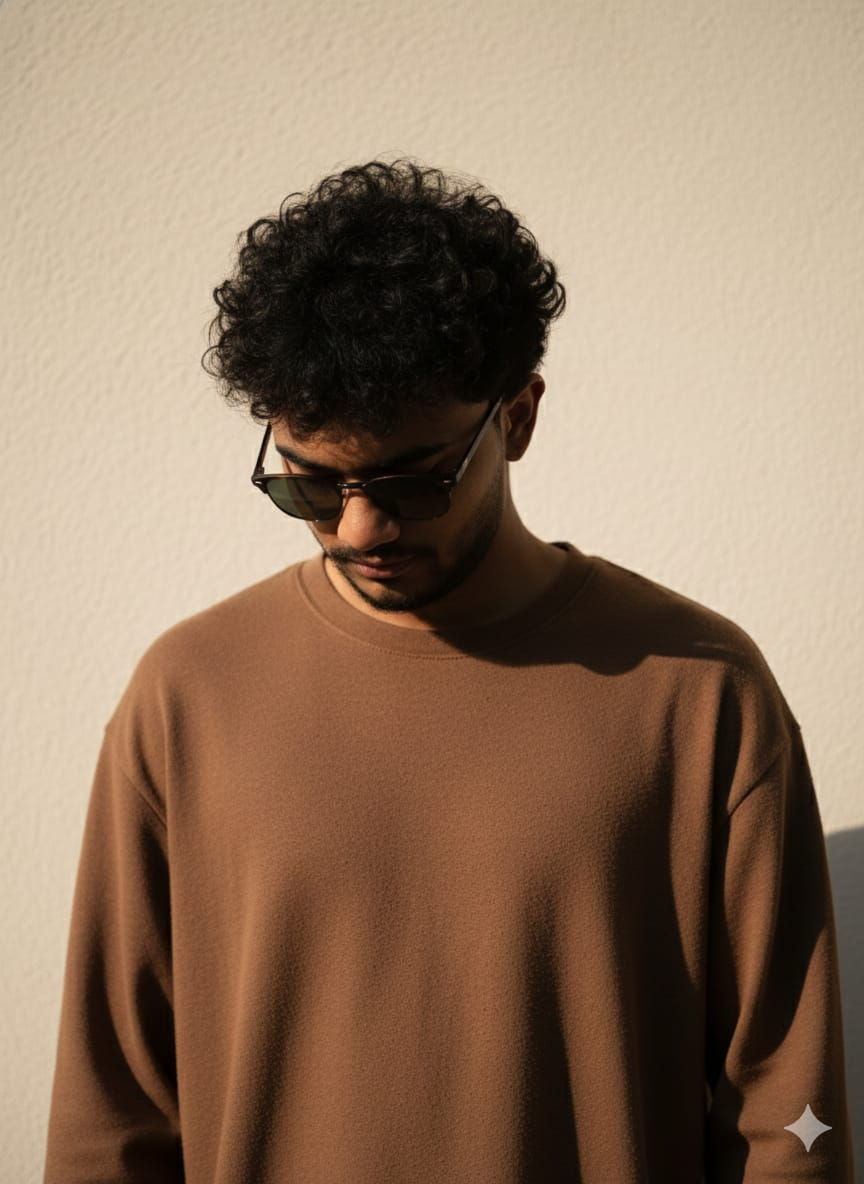
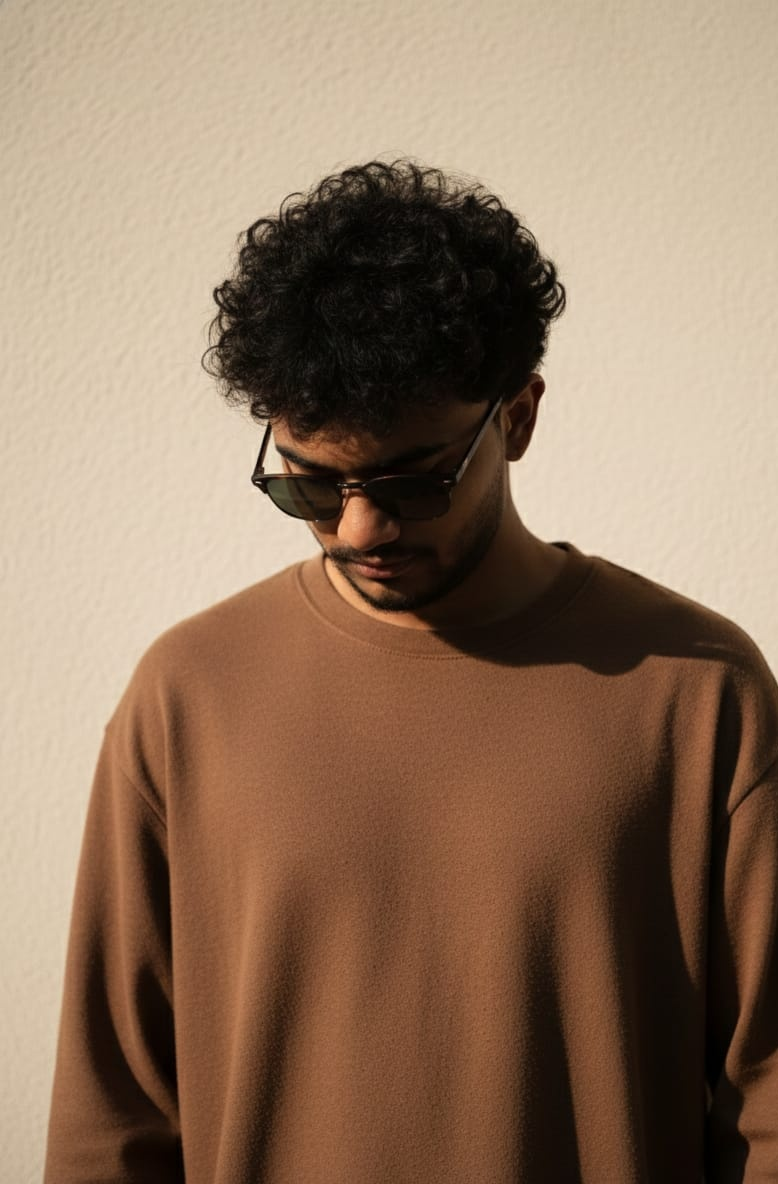
Update portfolio design and content

Changed region(s): [[0.0617, 0.125, 1.0, 1.0], [0.0308, 0.9375, 0.0617, 1.0]]

diff --git a/js/main.js b/js/main.js
@@ -8,9 +8,9 @@
  * Tweak delays, durations, and cycle periods here:
  * ═══════════════════════════════════════════════════════════════════ */
 const LINE_1_START_DELAY_MS = 1000;   // Delay in ms after page load before Line 1 first rolls
-const LINE_GAP_SECONDS = 10;          // Seconds after Line 1 starts before Line 2 starts (never roll both together)
+const LINE_GAP_SECONDS = 10;          // Seconds gap between consecutive lines rolling (exact 10s gap)
 const ROLL_DURATION_MS = 1400;        // Duration in ms of one 180° vertical roll
-const CYCLE_SECONDS = 20;             // Total cycle period in seconds (Line 1 rolls at 0s, 20s... Line 2 at 10s, 30s...)
+const CYCLE_SECONDS = 30;             // Total cycle period in seconds (Line 1: 0s, Line 2: 10s, Line 3: 20s)
 const ROLL_DIRECTION = -1;            // -1 = rolls forward toward viewer (slot-machine drum), 1 = rolls bottom-up
 
 
@@ -55,32 +55,40 @@ const ROLL_DIRECTION = -1;            // -1 = rolls forward toward viewer (slot-
   overlayLinks.forEach(link => link.addEventListener('click', () => toggleOverlay(false)));
 
   /* ═════════════════════════════════════════════════════════
-     3-D MAIN HEADING VERTICAL ROLL CONTROLLER
-     - Two-line main heading rolling vertically like slot-machine drums (rotateX)
-     - Line 1 rolls FIRST at t=0 (after LINE_1_START_DELAY_MS = 1000ms)
-     - Line 2 rolls 10s later (LINE_GAP_SECONDS = 10s), never overlapping
+     3-D MAIN HEADING VERTICAL ROLL CONTROLLER (3 Staggered Lines)
+     - 3-line hero heading rolling vertically like slot-machine drums (rotateX)
+     - Line 1 ("Milan Sherin") rolls FIRST at t=0 (after LINE_1_START_DELAY_MS = 1000ms)
+     - Line 2 ("Security Researcher &") starts 10s after Line 1 (t=10s)
+     - Line 3 ("Network Engineer") starts 10s after Line 2 (t=20s)
+     - No two lines ever roll at the same time
+     - Sequence repeats every CYCLE_SECONDS = 30s
      - Snappy cubic-bezier(0.65, 0, 0.35, 1) transition over ROLL_DURATION_MS = 1400ms
-     - Sequence repeats every CYCLE_SECONDS = 20s (Line 1 at 0s, 20s... Line 2 at 10s, 30s...)
-     - Angular accumulation: turns forward endlessly in the same direction, never rewinding
-     - Dynamic line height measurement for accurate translateZ on mobile wrapping
+     - Continuous single-controller rAF clock with ZERO timing drift
      - Snaps to exact square angle at rest (no layout shift, zero blur)
-     - IntersectionObserver & document.visibilitychange pauses/resumes cleanly without drift
-     - Accessible: full title in aria-label, back faces marked aria-hidden
+     - IntersectionObserver & document.visibilitychange pauses/resumes cleanly
      - Respects prefers-reduced-motion: displays static heading
      ═════════════════════════════════════════════════════════ */
   function initHeadingRoll() {
     const heading = document.querySelector('.s-intro__content-title');
-    const line1Stage = document.querySelector('.heading-3d-line-1 .heading-3d-stage');
-    const line1Cuboid = document.querySelector('.heading-3d-line-1 .heading-3d-cuboid');
-    const line1Front = document.querySelector('.heading-3d-line-1 .heading-3d-front');
-    const line1Back = document.querySelector('.heading-3d-line-1 .heading-3d-back');
+    const lineElements = [
+      document.querySelector('.heading-3d-line-1'),
+      document.querySelector('.heading-3d-line-2'),
+      document.querySelector('.heading-3d-line-3')
+    ];
 
-    const line2Stage = document.querySelector('.heading-3d-line-2 .heading-3d-stage');
-    const line2Cuboid = document.querySelector('.heading-3d-line-2 .heading-3d-cuboid');
-    const line2Front = document.querySelector('.heading-3d-line-2 .heading-3d-front');
-    const line2Back = document.querySelector('.heading-3d-line-2 .heading-3d-back');
+    if (!heading || lineElements.some(el => !el)) return;
 
-    if (!heading || !line1Stage || !line1Cuboid || !line2Stage || !line2Cuboid) return;
+    const lineObjects = lineElements.map((lineEl, index) => {
+      return {
+        el: lineEl,
+        stage: lineEl.querySelector('.heading-3d-stage'),
+        cuboid: lineEl.querySelector('.heading-3d-cuboid'),
+        front: lineEl.querySelector('.heading-3d-front'),
+        back: lineEl.querySelector('.heading-3d-back'),
+        halfHeight: 0,
+        startOffsetMs: index * LINE_GAP_SECONDS * 1000
+      };
+    });
 
     // Cubic-bezier evaluator for cubic-bezier(0.65, 0, 0.35, 1)
     function createCubicBezier(x1, y1, x2, y2) {
@@ -123,22 +131,14 @@ const ROLL_DIRECTION = -1;            // -1 = rolls forward toward viewer (slot-
     const easeRoll = createCubicBezier(0.65, 0, 0.35, 1);
     const prefersReducedMotion = window.matchMedia('(prefers-reduced-motion: reduce)');
 
-    let halfHeight1 = 0;
-    let halfHeight2 = 0;
-
     // Responsive line height measurement: recalculates translateZ on mobile wrapping / resize
     function measureHeights() {
-      const h1 = (line1Front && line1Front.offsetHeight) || line1Stage.offsetHeight || 60;
-      const h2 = (line2Front && line2Front.offsetHeight) || line2Stage.offsetHeight || 60;
-
-      halfHeight1 = Math.round(h1 / 2);
-      halfHeight2 = Math.round(h2 / 2);
-
-      line1Stage.style.setProperty('--line-half-height', `${halfHeight1}px`);
-      line2Stage.style.setProperty('--line-half-height', `${halfHeight2}px`);
-
-      if (line1Back) line1Back.style.minHeight = `${h1}px`;
-      if (line2Back) line2Back.style.minHeight = `${h2}px`;
+      lineObjects.forEach(obj => {
+        const h = (obj.front && obj.front.offsetHeight) || (obj.stage && obj.stage.offsetHeight) || 60;
+        obj.halfHeight = Math.round(h / 2);
+        if (obj.stage) obj.stage.style.setProperty('--line-half-height', `${obj.halfHeight}px`);
+        if (obj.back) obj.back.style.minHeight = `${h}px`;
+      });
     }
 
     measureHeights();
@@ -158,23 +158,25 @@ const ROLL_DIRECTION = -1;            // -1 = rolls forward toward viewer (slot-
 
     function render(timeMs) {
       if (prefersReducedMotion.matches) {
-        line1Cuboid.classList.add('is-at-rest');
-        line2Cuboid.classList.add('is-at-rest');
-        line1Cuboid.style.transform = `translate3d(0, 0, ${-halfHeight1}px) rotateX(0deg)`;
-        line2Cuboid.style.transform = `translate3d(0, 0, ${-halfHeight2}px) rotateX(0deg)`;
+        lineObjects.forEach(obj => {
+          if (!obj.cuboid) return;
+          obj.cuboid.classList.add('is-at-rest');
+          obj.cuboid.style.transform = `translate3d(0, 0, ${-obj.halfHeight}px) rotateX(0deg)`;
+        });
         return;
       }
 
-      if (halfHeight1 === 0 || halfHeight2 === 0) {
+      if (lineObjects.some(obj => obj.halfHeight === 0)) {
         measureHeights();
       }
 
-      // Initial pre-delay: hold both lines static at rest (0°)
+      // Initial pre-delay: hold all lines static at rest (0°)
       if (timeMs < LINE_1_START_DELAY_MS) {
-        line1Cuboid.classList.add('is-at-rest');
-        line2Cuboid.classList.add('is-at-rest');
-        line1Cuboid.style.transform = `translate3d(0, 0, ${-halfHeight1}px) rotateX(0deg)`;
-        line2Cuboid.style.transform = `translate3d(0, 0, ${-halfHeight2}px) rotateX(0deg)`;
+        lineObjects.forEach(obj => {
+          if (!obj.cuboid) return;
+          obj.cuboid.classList.add('is-at-rest');
+          obj.cuboid.style.transform = `translate3d(0, 0, ${-obj.halfHeight}px) rotateX(0deg)`;
+        });
         return;
       }
 
@@ -183,47 +185,34 @@ const ROLL_DIRECTION = -1;            // -1 = rolls forward toward viewer (slot-
       const cycleIndex = Math.floor(elapsed / cycleMs);
       const timeInCycle = elapsed % cycleMs;
 
-      // Line 1: rolls at beginning of cycle (t = 0 to ROLL_DURATION_MS)
-      let deg1;
-      const isLine1Rolling = timeInCycle < ROLL_DURATION_MS;
-      if (isLine1Rolling) {
-        line1Cuboid.classList.remove('is-at-rest');
-        const p1 = timeInCycle / ROLL_DURATION_MS;
-        const e1 = easeRoll(p1);
-        deg1 = ROLL_DIRECTION * (cycleIndex + e1) * 180;
-      } else {
-        // Snap exactly to integer multiple of 180° at rest
-        line1Cuboid.classList.add('is-at-rest');
-        deg1 = ROLL_DIRECTION * (cycleIndex + 1) * 180;
-      }
+      lineObjects.forEach(obj => {
+        if (!obj.cuboid) return;
+        const lineStart = obj.startOffsetMs;
+        const lineEnd = lineStart + ROLL_DURATION_MS;
+        let deg;
+        const isRolling = timeInCycle >= lineStart && timeInCycle < lineEnd;
 
-      // Line 2: rolls at LINE_GAP_SECONDS (exact 10s after Line 1 starts)
-      const l2Start = LINE_GAP_SECONDS * 1000;
-      const l2End = l2Start + ROLL_DURATION_MS;
+        if (timeInCycle < lineStart) {
+          // Sits still before its roll starts in this cycle
+          obj.cuboid.classList.add('is-at-rest');
+          deg = ROLL_DIRECTION * cycleIndex * 180;
+        } else if (isRolling) {
+          // Rolling with snappy cubic-bezier easing
+          obj.cuboid.classList.remove('is-at-rest');
+          const p = (timeInCycle - lineStart) / ROLL_DURATION_MS;
+          const e = easeRoll(p);
+          deg = ROLL_DIRECTION * (cycleIndex + e) * 180;
+        } else {
+          // Snaps exactly to integer multiple of 180° at rest
+          obj.cuboid.classList.add('is-at-rest');
+          deg = ROLL_DIRECTION * (cycleIndex + 1) * 180;
+        }
 
-      let deg2;
-      const isLine2Rolling = timeInCycle >= l2Start && timeInCycle < l2End;
-      if (timeInCycle < l2Start) {
-        // Line 2 sits perfectly still before its roll starts
-        line2Cuboid.classList.add('is-at-rest');
-        deg2 = ROLL_DIRECTION * cycleIndex * 180;
-      } else if (isLine2Rolling) {
-        line2Cuboid.classList.remove('is-at-rest');
-        const p2 = (timeInCycle - l2Start) / ROLL_DURATION_MS;
-        const e2 = easeRoll(p2);
-        deg2 = ROLL_DIRECTION * (cycleIndex + e2) * 180;
-      } else {
-        // Snap exactly to integer multiple of 180° at rest
-        line2Cuboid.classList.add('is-at-rest');
-        deg2 = ROLL_DIRECTION * (cycleIndex + 1) * 180;
-      }
-
-      const rot1Str = isLine1Rolling ? deg1.toFixed(3) : Math.round(deg1).toString();
-      const rot2Str = isLine2Rolling ? deg2.toFixed(3) : Math.round(deg2).toString();
-
-      line1Cuboid.style.transform = `translate3d(0, 0, ${-halfHeight1}px) rotateX(${rot1Str}deg)`;
-      line2Cuboid.style.transform = `translate3d(0, 0, ${-halfHeight2}px) rotateX(${rot2Str}deg)`;
+        const rotStr = isRolling ? deg.toFixed(3) : Math.round(deg).toString();
+        obj.cuboid.style.transform = `translate3d(0, 0, ${-obj.halfHeight}px) rotateX(${rotStr}deg)`;
+      });
     }
+
 
     function loop(now) {
       if (!isRunning) return;

diff --git a/index.html b/index.html
@@ -3,7 +3,10 @@
 <head>
     <meta charset="UTF-8">
     <meta name="viewport" content="width=device-width, initial-scale=1.0">
-    <title>Milan Sherin — Systems &amp; AI Security Engineer</title>
+    <title>Milan Sherin — Security Researcher &amp; Network Engineer</title>
+    <meta name="description" content="Milan Sherin — Security Researcher &amp; Network Engineer portfolio and systems projects.">
+    <meta property="og:title" content="Milan Sherin — Security Researcher &amp; Network Engineer">
+    <meta property="og:description" content="Milan Sherin — Security Researcher &amp; Network Engineer portfolio and systems projects.">
 
     <!-- Tailwind CDN -->
     <script src="https://cdn.tailwindcss.com"></script>
@@ -144,8 +147,8 @@
                             <span>Systems &middot; AI Security &middot; Infrastructure</span>
                         </div>
 
-                        <!-- Primary headline inside #intro (.s-intro__content-title) with 3D vertical roll cuboids -->
-                        <h1 class="s-intro__content-title text-[2.75rem] sm:text-[4.2rem] md:text-[5.2rem] lg:text-[5.8rem] font-black tracking-tightest leading-[1.05] select-none" aria-label="Milan Sherin &mdash; AI Systems">
+                        <!-- Primary headline inside #intro (.s-intro__content-title) with 3 staggered 3D vertical roll cuboids -->
+                        <h1 class="s-intro__content-title font-black tracking-tightest leading-[1.05] select-none" aria-label="Milan Sherin &mdash; Security Researcher &amp; Network Engineer">
                             <!-- Line 1: Milan Sherin -->
                             <div class="heading-3d-line heading-3d-line-1">
                                 <div class="heading-3d-stage">
@@ -155,12 +158,21 @@
                                     </div>
                                 </div>
                             </div>
-                            <!-- Line 2: AI Systems -->
+                            <!-- Line 2: Security Researcher & -->
                             <div class="heading-3d-line heading-3d-line-2">
                                 <div class="heading-3d-stage">
                                     <div class="heading-3d-cuboid text-black dark:text-white font-extrabold">
-                                        <div class="heading-3d-face heading-3d-front">AI Systems</div>
-                                        <div class="heading-3d-face heading-3d-back" aria-hidden="true">AI Systems</div>
+                                        <div class="heading-3d-face heading-3d-front">Security Researcher &amp;</div>
+                                        <div class="heading-3d-face heading-3d-back" aria-hidden="true">Security Researcher &amp;</div>
+                                    </div>
+                                </div>
+                            </div>
+                            <!-- Line 3: Network Engineer -->
+                            <div class="heading-3d-line heading-3d-line-3">
+                                <div class="heading-3d-stage">
+                                    <div class="heading-3d-cuboid text-black dark:text-white font-extrabold">
+                                        <div class="heading-3d-face heading-3d-front">Network Engineer</div>
+                                        <div class="heading-3d-face heading-3d-back" aria-hidden="true">Network Engineer</div>
                                     </div>
                                 </div>
                             </div>

diff --git a/css/styles.css b/css/styles.css
@@ -67,12 +67,14 @@ body {
 }
 
 /* ═══════════════════════════════════════════════════════════
-   3-D MAIN HEADING VERTICAL ROLL (Two-Line Cuboid Roll)
+   3-D MAIN HEADING VERTICAL ROLL (3-Line Staggered Cuboids)
    ══════════════════════════════════════════════════════════*/
 
 .s-intro__content-title {
   position: relative;
   line-height: 1.05;
+  font-size: clamp(1.5rem, 3.8vw, 2.9rem);
+  letter-spacing: -0.05em;
 }
 
 /* Line wrapper */
@@ -110,6 +112,7 @@ body {
 .heading-3d-face {
   display: block;
   width: 100%;
+  white-space: nowrap;
   backface-visibility: hidden;
   -webkit-backface-visibility: hidden;
   transform-style: preserve-3d;

diff --git a/milan_sherin_portfolio.html b/milan_sherin_portfolio.html
@@ -3,7 +3,7 @@
 <head>
     <meta charset="UTF-8">
     <meta name="viewport" content="width=device-width, initial-scale=1.0">
-    <title>Milan Sherin — Systems & AI Security Engineer</title>
+    <title>Milan Sherin — Security Researcher &amp; Network Engineer</title>
     <!-- Tailwind CSS CDN -->
     <script src="https://cdn.tailwindcss.com"></script>
     <!-- Google Fonts: Inter -->
